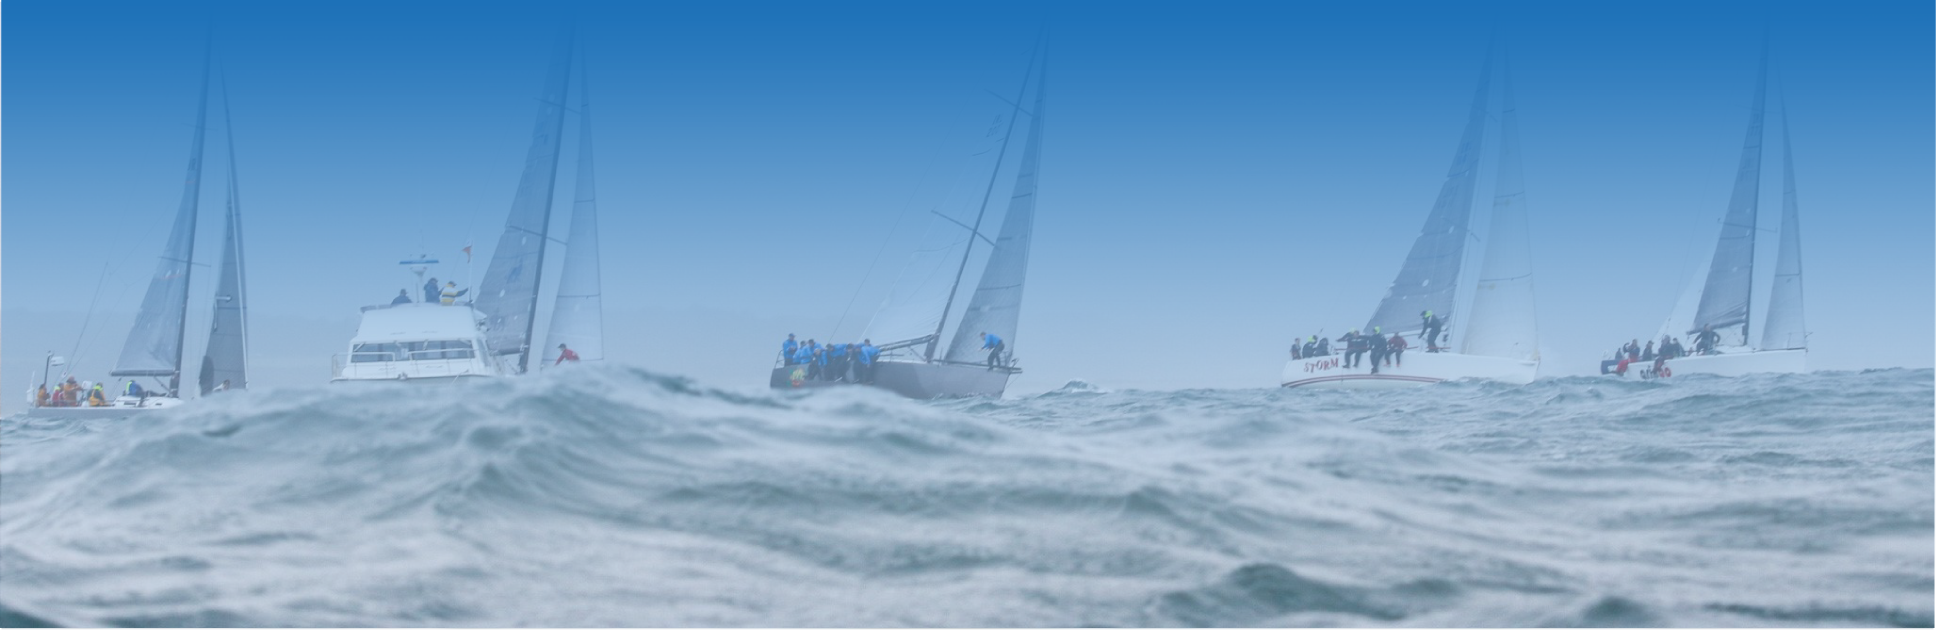
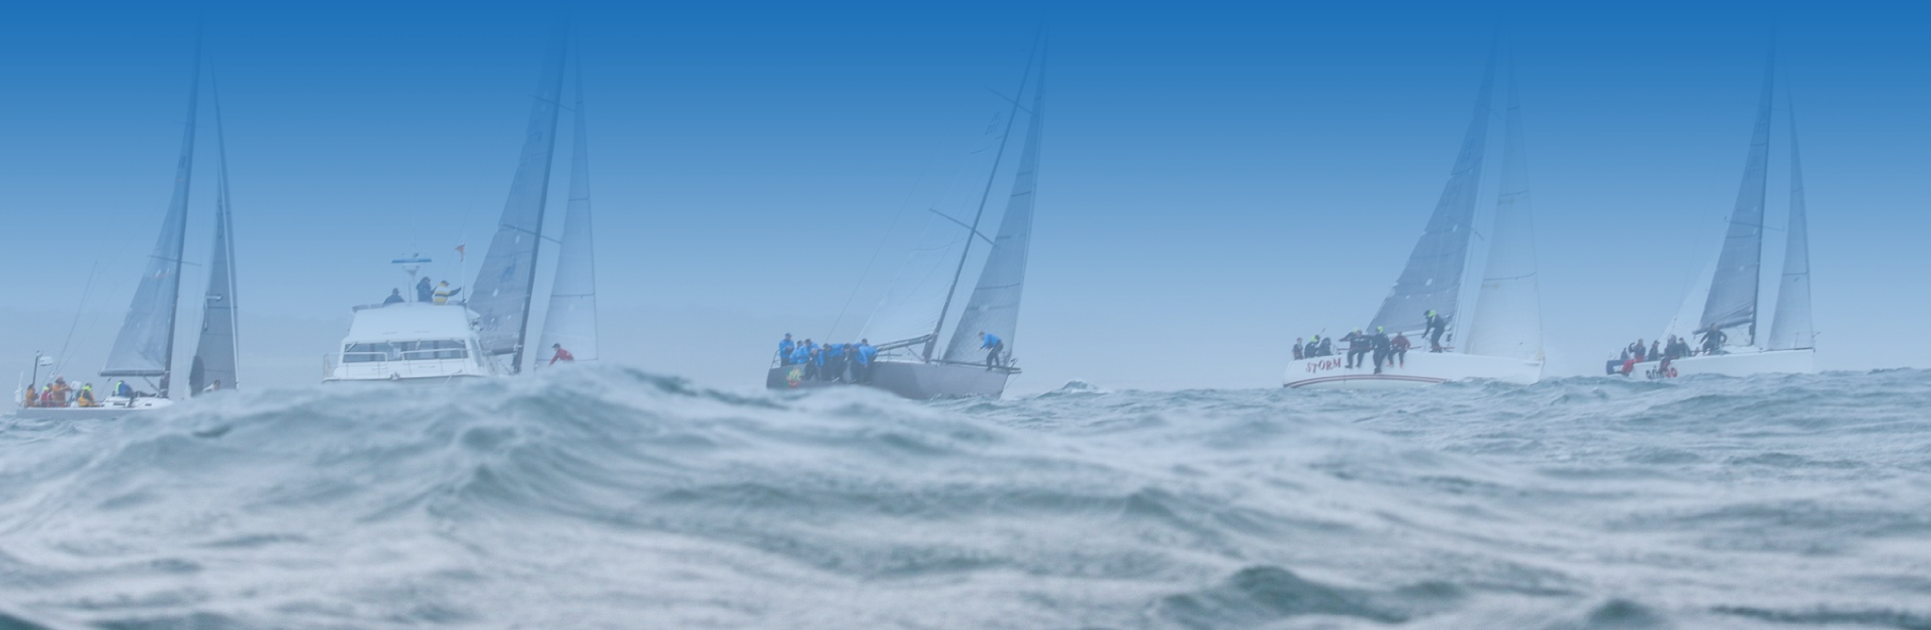
udpated assets

diff --git a/public/states/pages/workOverview.html b/public/states/pages/workOverview.html
@@ -17,13 +17,13 @@
       <img ng-show='show1'src="../../assets/workOverview/designs/work_appdesign_molex_fm_link.png" alt="EUTDesign">
 
       <div class='workHover' ng-show='!show1' ui-sref='fm'>
-        <img src="../../assets/workOverview/designs/work_appdesign_FM_Hover_Appicon.png" alt="">
+        <img src="../../assets/icons/Work_App_Icon_FM.png" alt="">
         <h3 class='clickable'>Enter Factility Manager Tool</h3>
       </div>
     </div>
     <h3 class='oneProjectTitle'>Molex Tools Suite Facility Manager Tool</h3>
     <p class='oneProjectText'>A revolutionary building management App with live lighting status, override and troubleshooting functions.</p>
-    <div class='greenButton clickable' ui-sref='fm'>See more ></div>
+    <div class='greenButton clickable' ui-sref='fm'>View Project ></div>
   </div>
 </section>
 
@@ -36,14 +36,14 @@
       <img ng-show='show2'src="../../assets/workOverview/designs/work_appdesign_molex_eu_link.png" alt="EUTDesign">
 
       <div class='workHover' ng-show='!show2' ui-sref='eut'>
-        <img src="../../assets/workOverview/designs/work_appdesign_eu_Hover_Appicon.png" alt="">
+        <img src="../../assets/icons/Work_App_Icon_EU.png" alt="">
         <h3 class='clickable'>Enter End User Tool</h3>
       </div>
     </div>
 
     <h3 class='oneProjectTitle'>Molex Tools Suite End User Tool</h3>
     <p class='oneProjectText'>A commercial light App that supports office worker’s tasks, moods and user well being.</p>
-    <div class='greenButton clickable' ui-sref='eut'>See more ></div>
+    <div class='greenButton clickable' ui-sref='eut'>View Project ></div>
   </div>
 </section>
 
@@ -55,13 +55,13 @@
       <img ng-show='show3'src="../../assets/workOverview/designs/work_appdesign_urbanfitness_eu_link.png" alt="EUTDesign">
 
       <div class='workHover' ng-show='!show3' ui-sref='urban'>
-        <img src="../../assets/workOverview/designs/work_appdesign_UrbanFitness_Hover_Appicon.png" alt="">
+        <img src="../../assets/icons/Work_App_Icon_UF.png" alt="">
         <h3 class='clickable'>Enter Urban Fitness</h3>
       </div>
     </div>
     <h3 class='oneProjectTitle'>Urban Fitness</h3>
     <p class='oneProjectText'>Manage Lighting in Gyms to support different uses and exercises.</p>
-    <div class='greenButton clickable' ui-sref='urban'>See more ></div>
+    <div class='greenButton clickable' ui-sref='urban'>View Project ></div>
   </div>
 </section>
 
@@ -73,13 +73,13 @@
       <img ng-show='show4'src="../../assets/workOverview/designs/work_appdesign_bridgewaterhall_eu_link.png" alt="BridgeDesign">
 
       <div class='workHover' ng-show='!show4' ui-sref='bridge'>
-        <img src="../../assets/workOverview/designs/work_appdesign_BridgewaterHall_Hover_Appicon.png" alt="">
+        <img src="../../assets/icons/Work_App_Icon_B.png" alt="">
         <h3 class='clickable'>Enter Bridgewater Hall</h3>
       </div>
     </div>
     <h3 class='oneProjectTitle'>Bridgewater Hall</h3>
     <p class='oneProjectText'>Full lighting control for theatres with quick setting and richer lighting experiences for audiences.</p>
-    <div class='greenButton clickable' ui-sref='bridge'>See more ></div>
+    <div class='greenButton clickable' ui-sref='bridge'>View Project ></div>
   </div>
 </section>
 
@@ -91,13 +91,13 @@
       <img ng-show='show5'src="../../assets/workOverview/designs/work_appdesign_pwellheli_eu_link.png" alt="BridgeDesign">
 
       <div class='workHover' ng-show='!show5'>
-        <img src="../../assets/workOverview/designs/work_appdesign_PwllHeli_Hover_Appicon.png" alt="">
+        <img src="../../assets/icons/Work_App_Icon_P.png" alt="">
         <h3 class='clickable'>Enter PwllHeli Sailing Club</h3>
       </div>
     </div>
     <h3 class='oneProjectTitle'>PwllHeli Sailing Club</h3>
     <p class='oneProjectText'>Dynamic light experiences to inform sailors of the wind strength and direction.</p>
-    <div class='greenButton clickable' ui-sref='pwell'>See more ></div>
+    <div class='greenButton clickable' ui-sref='pwell'>View Project ></div>
   </div>
 </section>
 
@@ -107,7 +107,7 @@
 
     <div id='getStartedContainer'>
       <span>See work I've manufatured?</span>
-        <div class='blueButton clickable workOverviewButton'>View Print and Manufacturer></div>
+        <div class='blueButton clickable workOverviewButton'>View Print and Manufacturer ></div>
     </div>
 </section>
 

diff --git a/public/states/pages/urban.html b/public/states/pages/urban.html
@@ -91,6 +91,18 @@
   </div>
 </section>
 
+<section class='oneMainProject white'>
+  <div class='oneProjectInfo'>
+  <div id='urbanDesign5Images'>
+    <img src="../../assets/urban/Work_urban_fitness_8_photo.png" alt="EUTDesign">
+    <img src="../../assets/urban/Work_urban_fitness_9_phot.png" alt="EUTDesign">
+  </div>
+    <h3 class='oneProjectTitle'>Photos</h3>
+    <p class='oneProjectText'>Photos of Urban Fitness workout light experiances
+    </p>
+  </div>
+</section>
+
 <section id='findOutMoreContainer' ng-init="moreProfileInfo = false">
   <img src="../../assets/home/blackPoint.png" alt="">
 

diff --git a/public/css/workOverview.css b/public/css/workOverview.css
@@ -5,7 +5,7 @@
   /*background-size: cover;*/
       background-origin:initial;
   width: 100%;
-  height: 800px;
+  height: 720px;
 }
 #workMastHeadText{
   display: block;
@@ -110,11 +110,11 @@ background-image: radial-gradient(ellipse farthest-corner at center, #FFFFFF 0%,
 }
 .workHover h3 {
   margin: 0 auto;
-  margin-top: -20px;
+  margin-top: 20px;
   padding: 10px;
   background-color: #ededed;
   border: solid 3px #f5f5f5;
-  width: 350px;
+  width: 400px;
   font-weight: 800;
 }
 

diff --git a/public/css/molex.css b/public/css/molex.css
@@ -29,7 +29,7 @@
 }
 
 #bridgeText {
-  color: #5a375f;
+  color: white;
   width: 700px;
   font-weight: 200;
   font-size: 25px;
@@ -37,7 +37,7 @@
 }
 #bridgeHeadText {
    margin-top: 60px;
-   color: #5a375f;
+   color: white;
    font-size: 40px;
    font-weight: 600;
 }

diff --git a/public/css/home.css b/public/css/home.css
@@ -17,7 +17,7 @@
   background-repeat: no-repeat;
   background-position: bottom left;
   width: 100%;
-  height: 1000px;
+  height: 675px;
 }
 #mastHeadText{
   display: block;
